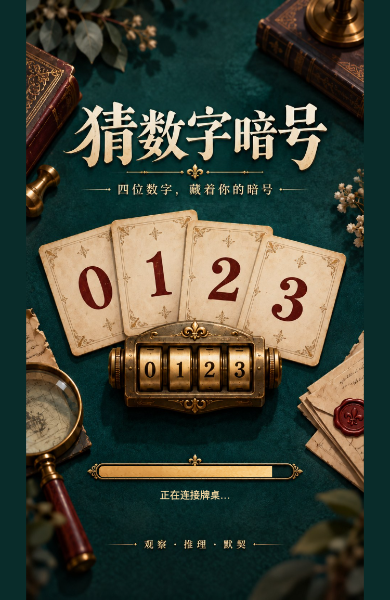
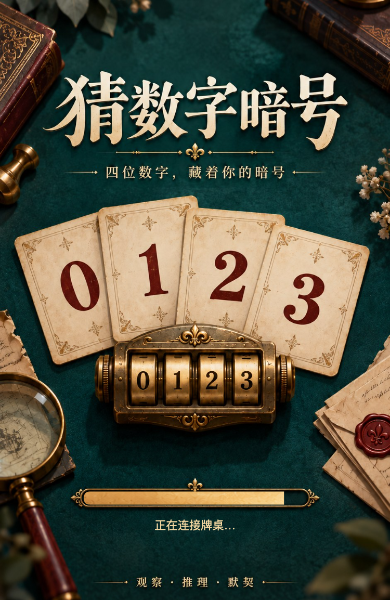
Fill startup viewport and wait for complete lobby artwork

diff --git a/assets/scripts/GameApp.ts b/assets/scripts/GameApp.ts
@@ -1,5 +1,6 @@
 import { WechatFlow, avatarUrl, type Invitation } from './shared/wechat-flow';
 import { _decorator, Component, Node, UITransform, Label, Graphics, Color, Layers, view, ResolutionPolicy, resources, SpriteFrame, Sprite, Texture2D, profiler, tween, Tween, UIOpacity, Vec3, EditBox, input, Input, EventKeyboard, KeyCode, game, Game, BlockInputEvents, ScrollView, Mask, Vec2, Font, Rect, assetManager, ImageAsset } from 'cc';
+import { StartupAssets } from './shared/startup-assets';
 import { RoundRoll } from './shared/round-roll';
 import { FeedbackArt } from './FeedbackArt';
 import { feedbackEvent, cancellationArt, resultCaption, type FeedbackEvent } from './shared/feedback-state';
@@ -47,6 +48,8 @@ export class GameApp extends Component {
   private loginFailed = false;
   private startupScreen?: StartupScreen;
   private startupStatus = '';
+  private startupEntered = false;
+  private startupAssets = new StartupAssets(() => { if (this.isValid) this.render(); });
   private startupFrame?: SpriteFrame;
   private startupTexture?: Texture2D;
   private startupImage?: ImageAsset;
@@ -125,7 +128,7 @@ export class GameApp extends Component {
       delete startup.__digitalBombStartup;
     }
     view.setDesignResolutionSize(750, 1334, ResolutionPolicy.FIXED_WIDTH);
-    this.scenery = new SceneBackdrop(this.node);
+    this.scenery = new SceneBackdrop(this.node, (path, loaded) => this.loadStartupTexture(path, loaded));
     this.root = new Node('Interface'); this.node.addChild(this.root); this.root.layer = Layers.Enum.UI_2D; this.root.addComponent(UITransform).setContentSize(750, 1334);
     this.effects = new Node('FeedbackLayer'); this.effects.layer = Layers.Enum.UI_2D; this.node.addChild(this.effects); this.effects.addComponent(UITransform).setContentSize(750, 1334);
     this.friendReturn = new FriendReturnLayer(this.node);
@@ -136,16 +139,17 @@ export class GameApp extends Component {
     this.net.onState = () => this.stateChanged(); this.net.onStatus = () => { if (!this.net.online) this.suppressFeedback = true; this.render(); }; this.net.onError = s => this.toast(s);
     resources.load('art/opponent/texture', Texture2D, (err, texture) => { if (!err) { const sf = new SpriteFrame(); sf.texture = texture; this.opponentArt = sf; this.render(); } });
     for (const name of ['title', 'machine', 'match-full', 'friend-full', 'help-full', 'settings-full', 'sound-full', 'avatar-frame', 'nickname-frame']) {
-      resources.load('art/lobby/' + name + '/texture', Texture2D, (err, texture) => {
-        if (err || !this.isValid) return;
+      this.loadStartupTexture('art/lobby/' + name + '/texture', texture => {
         const sf = new SpriteFrame(); sf.texture = texture; this.lobbyArt.set(name, sf); this.render();
       });
     }
     for (const name of ['portrait-frame', 'portrait-background', 'avatar-selected', 'paper', 'back', 'heading', 'change-avatar', 'wechat', 'cancel', 'save', 'input', 'avatar-0', 'avatar-1', 'avatar-2', 'avatar-3']) {
-      resources.load('art/profile/' + name + '/texture', Texture2D, (err, texture) => {
-        if (err || !this.isValid) return;
+      const loaded = (texture: Texture2D) => {
         const sf = new SpriteFrame(); sf.texture = texture; this.profileArt.set(name, sf); this.render();
-      });
+      };
+      const path = 'art/profile/' + name + '/texture';
+      if (/^avatar-[0-3]$/.test(name)) this.loadStartupTexture(path, loaded);
+      else resources.load(path, Texture2D, (err, texture) => { if (!err && this.isValid) loaded(texture); });
     }
     resources.load('fonts/friend-digits/FriendDigits', Font, (err, font) => {
       if (err || !this.isValid) return;
@@ -175,8 +179,7 @@ export class GameApp extends Component {
         if (battleNames.every(key => this.battleArt.has(key))) { this.battleArtReady = true; this.render(); }
       });
     }
-    resources.load('art/lobby/digits/texture', Texture2D, (err, texture) => {
-      if (err || !this.isValid) return;
+    this.loadStartupTexture('art/lobby/digits/texture', texture => {
       this.lobbyDigitFrames = Array.from({length:10},(_,i)=>{const f=new SpriteFrame();f.texture=texture;f.rect=new Rect(i*64,0,64,80);return f;});
       this.render();
     });
@@ -198,6 +201,7 @@ export class GameApp extends Component {
         if (modalNames.every(key => this.modalArt.has(key))) { this.modalArtReady = true; this.render(); }
       });
     }
+    this.startupAssets.seal();
     profiler.hideStats();
     input.on(Input.EventType.KEY_DOWN, this.onKey, this); game.on(Game.EVENT_SHOW, this.onShow, this); game.on(Game.EVENT_HIDE, this.onHide, this);
     view.on('canvas-resize', this.resizeLayout, this);
@@ -208,6 +212,19 @@ export class GameApp extends Component {
   onDestroy() { clearTimeout(this.loginDeadline); this.releaseStartup(); this.wxFlow?.destroy(); if (this.feedbackArt) this.feedbackArt.disposed = true; this.friendReturn?.destroy(); this.modals?.destroy(); this.stopJoinMotion(); this.scenery?.destroy(); view.off('canvas-resize', this.resizeLayout, this); this.audio.dispose(); if (this.profilePanel) Tween.stopAllByTarget(this.profilePanel); this.clearEffects(); this.net.stop(); input.off(Input.EventType.KEY_DOWN, this.onKey, this); game.off(Game.EVENT_SHOW, this.onShow, this); game.off(Game.EVENT_HIDE, this.onHide, this); }
   private onHide() { this.wxFlow?.clearButton();this.audio.background(true); }
   private onShow() { this.audio.background(false); if (this.net.online) this.net.command('sync').catch(() => {}); }
+  private loadStartupTexture(path: string, loaded: (texture: Texture2D) => void) {
+    this.startupAssets.add(path, () => new Promise<void>((resolve, reject) => {
+      resources.load(path, Texture2D, (error, texture) => {
+        if (error) { reject(error); return; }
+        if (this.isValid) loaded(texture);
+        resolve();
+      });
+    }));
+  }
+  private retryStartup() {
+    this.startupAssets.retry();
+    if (!this.net.online) void this.retryConnection();
+  }
   private releaseStartup() {
     this.startupFrame?.destroy(); this.startupTexture?.destroy(); this.startupImage?.destroy();
     this.startupFrame = undefined; this.startupTexture = undefined; this.startupImage = undefined;
@@ -235,7 +252,6 @@ export class GameApp extends Component {
     clearTimeout(this.loginDeadline);
     const s = this.net.state!, r = s.room;
     this.consumeInvitation();
-    if(wechat()&&!this.profilePrompted){this.profilePrompted=true;this.scheduleOnce(()=>this.offerWechatProfile(),.6);}
     const event = r ? feedbackEvent(r, s.me.id, { roomId: this.lastRoom, phase: this.lastPhase, guesses: this.seenGuesses }, this.suppressFeedback) : undefined;
     if (r && this.suppressFeedback) this.roundRoll.sync(r.id, r.round, false, true);
     this.suppressFeedback = false;
@@ -431,15 +447,22 @@ export class GameApp extends Component {
       : state?.queuedAt != null ? 'matching' : this.page === 'join' ? 'friend' : 'lobby';
     this.scenery.setView(sceneView, read('motion', '1') === '1');
     const s = this.net.state;
-    if (s && this.startupFrame) this.releaseStartup();
-    this.lobbyShuffle.show(this.lobbyDigitFrames.length === 10 && this.lobbyArt.has('machine') && !!s && !s.room && s.queuedAt === null && this.page === 'lobby');
-    if (!s) this.startup();
+    const starting = !this.startupEntered && (!s || !this.net.online || !this.startupAssets.ready);
+    if (!starting && !this.startupEntered) {
+      this.startupEntered = true;
+      this.releaseStartup();
+      if (wechat() && !this.profilePrompted) {
+        this.profilePrompted = true; this.scheduleOnce(() => this.offerWechatProfile(), .6);
+      }
+    }
+    this.lobbyShuffle.show(this.lobbyDigitFrames.length === 10 && this.lobbyArt.has('machine') && !starting && !!s && !s.room && s.queuedAt === null && this.page === 'lobby');
+    if (starting || !s) this.startup();
     else if (s.room) this.room(s.room);
     else if (s.queuedAt !== null) this.matching();
     else if (this.page === 'join') this.join();
     else if (this.page === 'profile') this.profile();
     else this.lobby();
-    const modalKey = s && !this.net.online ? 'reconnect' : this.modalKey();
+    const modalKey = starting ? undefined : s && !this.net.online ? 'reconnect' : this.modalKey();
     this.modals.begin(this.modalArtReady ? modalKey : undefined, read('motion', '1') === '1');
     if (modalKey) this.artModal(modalKey);
     if (this.notice && Date.now() < this.noticeUntil) {
@@ -462,8 +485,11 @@ export class GameApp extends Component {
     this.updateTimer();
   }
   private startup() {
+    const failed = this.loginFailed || this.startupAssets.failed || (!!this.net.state && !this.net.online);
+    const status = this.startupAssets.failed ? '画面加载失败，点击这里重试'
+      : failed ? '连接未完成，点击这里重试'
+      : !this.net.state ? '正在连接牌桌…' : '正在准备首页…';
     if (this.startupFrame && this.startupScreen) {
-      const status = this.loginFailed ? '连接未完成，点击这里重试' : '正在连接牌桌…';
       if (status !== this.startupStatus) {
         this.startupScreen.draw(0.9, status);
         this.startupTexture!.uploadData(this.startupScreen.surface);
@@ -475,20 +501,20 @@ export class GameApp extends Component {
       sprite.sizeMode = Sprite.SizeMode.CUSTOM;
       cover.getComponent(UITransform)!.setContentSize(750, this.screenHeight);
       cover.addComponent(BlockInputEvents);
-      if (this.loginFailed) {
+      if (failed) {
         const rect = this.startupScreen.retryRect;
         const scale = 750 / this.startupScreen.surface.width;
         const retry = this.n('StartupRetry', 375, 667, rect.width * scale, rect.height * scale);
         retry.setPosition((rect.x + rect.width / 2) * scale - 375, this.screenHeight / 2 - (rect.y + rect.height / 2) * scale);
-        retry.on(Node.EventType.TOUCH_END, () => this.retryConnection());
+        retry.on(Node.EventType.TOUCH_END, () => this.retryStartup());
       }
     } else {
       // Web preview (or missing native splash): use the same startup state.
       this.header('猜数字暗号');
-      this.text('正在准备牌桌…', 375, 540, 36);
+      this.text(status, 375, 540, 30);
     }
-    if (this.loginFailed && !this.startupScreen) {
-      this.button('重新连接', 375, 960, 360, 84, () => this.retryConnection(), true, !this.reconnecting);
+    if (failed && !this.startupScreen) {
+      this.button('重新加载', 375, 960, 360, 84, () => this.retryStartup(), true, !this.reconnecting);
     }
   }
   /** Whole-control artwork includes lettering and icons; hit targets stay in Cocos. */

diff --git a/tests/startup-screen.test.ts b/tests/startup-screen.test.ts
@@ -4,21 +4,25 @@ import { readFileSync } from 'node:fs';
 import vm from 'node:vm';
 
 function fixture(height = 1334) {
-  const texts: string[] = [], clips: number[][] = [];
+  const texts: string[] = [], clips: number[][] = [], scales: number[][] = [];
   const ctx = new Proxy({}, { get: (_, key) => key === 'fillText' ? (value: string) => texts.push(value)
-    : key === 'rect' ? (...values: number[]) => clips.push(values) : () => {}, set: () => true });
+    : key === 'scale' ? (...values: number[]) => scales.push(values) : key === 'rect' ? (...values: number[]) => clips.push(values) : () => {}, set: () => true });
   const surface = { width: 0, height: 0, getContext: () => ctx };
   const context = vm.createContext({ module: { exports: {} }, canvas: { width: 750, height },
     wx: { createCanvas: () => surface }, cancelAnimationFrame() {},
     mockGL: new Proxy({}, { get: () => () => {} }) });
   vm.runInContext(readFileSync('build-templates/wechatgame/first-screen.js', 'utf8'), context);
-  return { context, surface, texts, clips };
+  return { context, surface, texts, clips, scales };
 }
 
-test('startup contains art and retry region on short and tall screens', () => {
+test('startup fills short and tall screens while keeping the retry region reachable', () => {
   for (const height of [1000, 1334, 1624]) {
-    const { context, surface } = fixture(height);
+    const { context, surface, scales } = fixture(height);
     const screen = vm.runInContext('createScreen({}, {})', context);
+    screen.draw(.5, '正在准备牌桌…');
+    assert.ok(941 * scales[0][0] >= surface.width - .01);
+    assert.ok(1672 * scales[0][1] >= surface.height - .01);
+    assert.equal(scales[0][0], scales[0][1], 'artwork must not stretch');
     const rect = screen.retryRect;
     assert.equal(surface.height, height);
     assert.ok(rect.x >= 0 && rect.y >= 0);

diff --git a/assets/scripts/SceneBackdrop.ts b/assets/scripts/SceneBackdrop.ts
@@ -13,7 +13,7 @@ export class SceneBackdrop {
   private motion = true;
   private disposed = false;
   private view: SceneView = 'lobby';
-  constructor(parent: Node) {
+  constructor(parent: Node, loadRequired?: (path: string, loaded: (texture: Texture2D) => void) => void) {
     this.root = new Node('PersistentStudy'); this.root.layer = Layers.Enum.UI_2D;
     parent.addChild(this.root); this.root.setSiblingIndex(0);
     this.fallback = this.makeNode('SceneFallback', this.root, 750, this.height);
@@ -26,15 +26,18 @@ export class SceneBackdrop {
     const names = ['room', 'table', 'near-left', 'near-right'];
     for (const name of names) {
       const n = this.makeNode(name, this.root, 750, this.height); n.active = false; this.layers.set(name, n);
-      resources.load('art/scene/' + name + '/texture', Texture2D, (err, texture) => {
-        if (err || this.disposed) return; // A missing layer keeps the complete fallback visible.
+      const loaded = (texture: Texture2D) => {
+        if (this.disposed) return;
         this.setTexture(n, texture);
         if (names.every(key => this.layers.get(key)!.getComponent(Sprite)?.spriteFrame)) {
           this.ready = true; this.fallback.active = false;
           for (const layer of this.layers.values()) layer.active = true;
           this.apply();
         }
-      });
+      };
+      const path = 'art/scene/' + name + '/texture';
+      if (loadRequired) loadRequired(path, loaded);
+      else resources.load(path, Texture2D, (err, texture) => { if (!err) loaded(texture); });
     }
   }
   private makeNode(name: string, parent: Node, w: number, h: number) {

diff --git a/tests/startup-assets.test.ts b/tests/startup-assets.test.ts
@@ -1,0 +1,29 @@
+import test from 'node:test';
+import assert from 'node:assert/strict';
+import { StartupAssets } from '../assets/scripts/shared/startup-assets';
+const flush = () => new Promise(resolve => setImmediate(resolve));
+
+test('startup never exposes partially loaded visuals or completes before registration', async () => {
+  const assets = new StartupAssets(() => {});
+  let finish!: () => void;
+  assets.add('title', async () => {});
+  assets.add('scene', () => new Promise<void>(resolve => { finish = resolve; }));
+  await flush();
+  assert.equal(assets.ready, false);
+  finish(); await flush();
+  assert.equal(assets.ready, false);
+  assets.seal(); assert.equal(assets.ready, true);
+});
+
+test('failed visuals keep startup visible and retry does not reload successful textures', async () => {
+  let good = 0, bad = 0;
+  const assets = new StartupAssets(() => {});
+  assets.add('title', async () => { good++; });
+  assets.add('scene', async () => { if (++bad === 1) throw Error('network'); });
+  assets.seal(); await flush();
+  assert.equal(assets.ready, false); assert.equal(assets.failed, true);
+  assets.retry(); assets.retry();
+  assert.equal(assets.failed, false); assert.equal(assets.ready, false);
+  await flush();
+  assert.equal(assets.ready, true); assert.equal(good, 1); assert.equal(bad, 2);
+});

diff --git a/assets/scripts/shared/startup-assets.ts b/assets/scripts/shared/startup-assets.ts
@@ -1,0 +1,22 @@
+/** Keep the startup screen until every required visual is ready, in any load order. */
+export class StartupAssets {
+  private jobs = new Map<string, { load: () => Promise<void>; state: 'pending' | 'ready' | 'failed' }>();
+  private sealed = false;
+  constructor(private changed: () => void) {}
+  get ready() { return this.sealed && Array.from(this.jobs.values()).every(job => job.state === 'ready'); }
+  get failed() { return Array.from(this.jobs.values()).some(job => job.state === 'failed'); }
+  add(key: string, load: () => Promise<void>) {
+    const job = { load, state: 'pending' as const };
+    this.jobs.set(key, job); this.run(key);
+  }
+  seal() { this.sealed = true; this.changed(); }
+  retry() {
+    const keys = Array.from(this.jobs.entries()).filter(([, job]) => job.state === 'failed').map(([key]) => key);
+    for (const key of keys) this.run(key);
+    this.changed();
+  }
+  private run(key: string) {
+    const job = this.jobs.get(key)!; job.state = 'pending';
+    Promise.resolve().then(job.load).then(() => { job.state = 'ready'; }, () => { job.state = 'failed'; }).then(() => this.changed());
+  }
+}

diff --git a/build-templates/wechatgame/first-screen.js b/build-templates/wechatgame/first-screen.js
@@ -20,7 +20,8 @@ function createScreen(background, fill) {
     surface.width = 750;
     surface.height = Math.round(750 * canvas.height / canvas.width);
     const ctx = surface.getContext('2d');
-    const scale = Math.min(surface.width / DESIGN_WIDTH, surface.height / DESIGN_HEIGHT);
+    // Fill the viewport without stretching. Crop only the decorative outer edges.
+    const scale = Math.max(surface.width / DESIGN_WIDTH, surface.height / DESIGN_HEIGHT);
     const x = (surface.width - DESIGN_WIDTH * scale) / 2;
     const y = (surface.height - DESIGN_HEIGHT * scale) / 2;
     return {

diff --git a/docs/design/startup/README.md b/docs/design/startup/README.md
@@ -9,13 +9,13 @@
 - `build-templates/wechatgame/startup/background.jpg`：主包内压缩背景，约 306 KB。
 - `build-templates/wechatgame/startup/progress.png`：从原稿金色进度区裁切的纹理，约 8 KB。
 - 原生启动层按引擎加载阶段更新进度；90% 表示等待连接，非网络传输百分比。
-- 首次收到服务器状态后进入首页（有恢复对局/邀请时遵循原有路由），销毁启动纹理。失败/15 秒等待后在原画面显示可点击重试文字。
-- 背景按比例完整显示，长短屏余量用深绿色填充。动态状态和重试热区使用同一源坐标。
+- 服务器连接和首页必需素材全部就绪后进入首页（有恢复对局/邀请时遵循原有路由），销毁启动纹理。必需素材包括背景四层、首页九个美术控件、四张默认头像和数字滚轮。加载期间显示“正在准备首页…”，不暴露临时文字/方框界面；素材失败可在启动页重试，仅重载失败素材。连接失败/15 秒等待后提供连接重试。
+- 背景采用等比 cover 铺满全屏，按屏幕比例裁去外围装饰，不拉伸、不留上下色带。动态状态和重试热区使用同一源坐标。
 - 素材位于微信构建模板，不由 Cocos 资源库导入，因此无 `.meta`；导出脚本复制到主包，在引擎和分包加载前可用。
 
 ## 验证
 
-`npm test`、两项类型检查、`npm run build:wechat`。`scripts/verify-startup.cjs` 在浏览器运行原生 WebGL 渲染器，验证三种比例及交接画面。`scripts/verify-startup-cocos.cjs` 在 Web 构建注入原生交接数据，验证真实 Cocos 节点、首次登录失败、点击重试、成功进入首页及纹理释放。截图保存在 `docs/verification/startup/`。这些验证不等同于微信开发者工具真机测试。
+`npm test`、两项类型检查、`npm run build:wechat`。`scripts/verify-startup.cjs` 在浏览器运行原生 WebGL 渲染器，验证三种比例及交接画面。`scripts/verify-startup-cocos.cjs` 在 Web 构建注入原生交接数据，验证真实 Cocos 节点、首次登录失败、点击重试，并故意延迟图片下载，确认登录完成后仍保留启动画面、没有首页备用节点，素材齐备后才进入首页并释放纹理。截图保存在 `docs/verification/startup/`。这些验证不等同于微信开发者工具真机测试。
 
 ## 背景清理提示词
 
